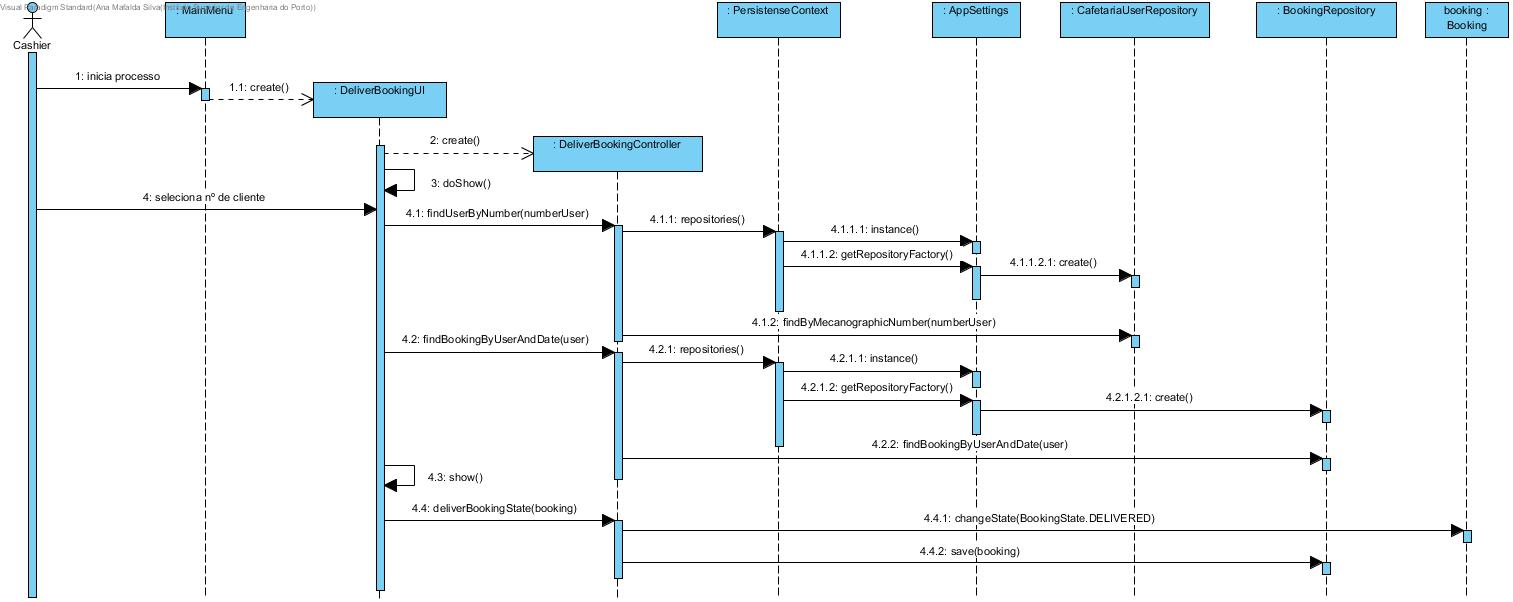
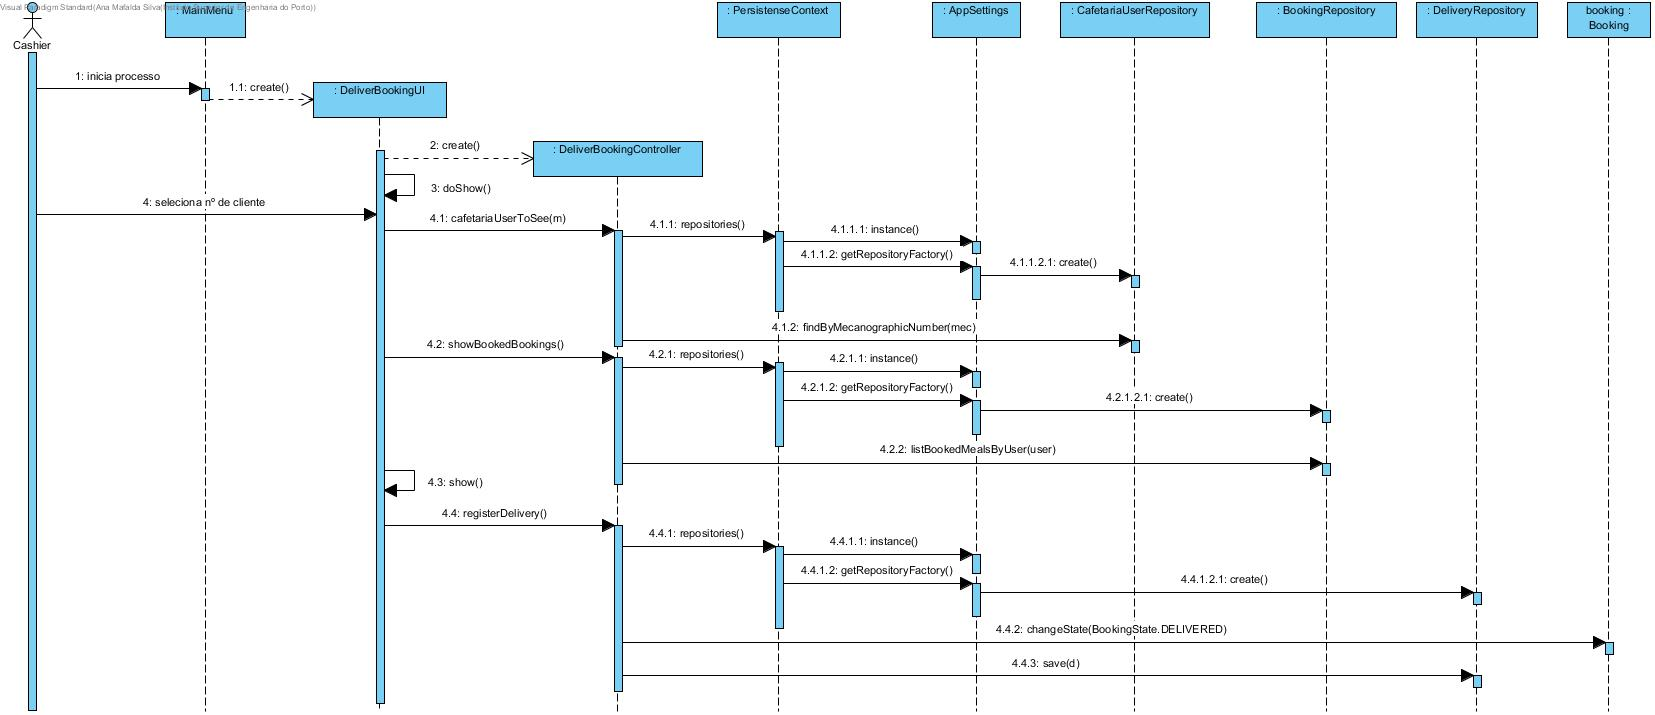
Modificações e correcções no caso de uso "DeliverBooking" e na documentação

diff --git a/ecafeteria.app.pos.console/src/main/java/eapli/ecafeteria/app/pos/console/presentation/booking/DeliverBookingUI.java b/ecafeteria.app.pos.console/src/main/java/eapli/ecafeteria/app/pos/console/presentation/booking/DeliverBookingUI.java
@@ -7,6 +7,7 @@ package eapli.ecafeteria.app.pos.console.presentation.booking;
 
 import eapli.ecafeteria.application.booking.DeliverBookingController;
 import eapli.ecafeteria.domain.booking.Booking;
+import eapli.ecafeteria.domain.cafeteriauser.MecanographicNumber;
 import eapli.framework.application.Controller;
 import eapli.framework.persistence.DataConcurrencyException;
 import eapli.framework.persistence.DataIntegrityViolationException;
@@ -35,6 +36,7 @@ public class DeliverBookingUI extends AbstractUI {
         boolean flag2;
         do {
             final String mecNum = Console.readLine("Input the mecanographic number:");
+            MecanographicNumber mn = new MecanographicNumber(mecNum + "");
             controller.cafetariaUserToSee(mecNum);
             controller.showBookedBookings();
             int choice = Console.readInteger("Please choose a booking: ");
@@ -45,9 +47,7 @@ public class DeliverBookingUI extends AbstractUI {
                 if(controller.registerDelivery()){
                     System.out.println("Success!!");
                 }
-            }   catch (DataIntegrityViolationException ex) {
-                    Logger.getLogger(DeliverBookingUI.class.getName()).log(Level.SEVERE, null, ex);
-                } catch (DataConcurrencyException ex) {
+            }   catch (DataIntegrityViolationException | DataConcurrencyException ex) {
                     Logger.getLogger(DeliverBookingUI.class.getName()).log(Level.SEVERE, null, ex);
                 }
             }

diff --git a/ecafeteria.core/src/main/java/eapli/ecafeteria/application/booking/DeliverBookingController.java b/ecafeteria.core/src/main/java/eapli/ecafeteria/application/booking/DeliverBookingController.java
@@ -87,24 +87,6 @@ public class DeliverBookingController implements Controller {
         return false;
     }
     
-    /*public boolean registerDelivery() throws DataConcurrencyException {
-
-        Delievery d = new Delievery(Calendar.getInstance(), user, bookingMeal);
-        try {
-            bookingMeal.updateBookingMealStatus(BookingMealStatus.DELIVERED);
-            deliveryRepo.save(d);
-        } catch (DataIntegrityViolationException ex) {
-            System.out.println("CANNOT REGISTER DELIVERY!!!");
-            Logger.getLogger(RegisterMealDelieveryController.class.getName()).log(Level.SEVERE, null, ex);
-        }
-
-        return true;
-    }
-
-    public void setBooking(BookingMeal b) {
-        this.bookingMeal = b;
-    }
-*/
     public boolean registerDelivery() throws DataConcurrencyException, DataIntegrityViolationException {
         
         Delievery d = new Delievery(Calendar.getInstance(), user, booking);

diff --git a/ecafeteria.persistence.impl/src/main/java/eapli/ecafeteria/persistence/jpa/JpaBookingRepository.java b/ecafeteria.persistence.impl/src/main/java/eapli/ecafeteria/persistence/jpa/JpaBookingRepository.java
@@ -78,7 +78,7 @@ class JpaBookingRepository extends CafeteriaJpaRepositoryBase<Booking, Long> imp
     public Iterable<Booking> listBookedMealsByCUser(CafeteriaUser cafUser) {
          final Query q = entityManager().createQuery(""
                 + "SELECT e FROM Booking e "
-                + "WHERE e.cafeteriaUser = 1 "
+                + "WHERE e.user = 1 "
                 + "AND e.bookingState = 2 ");
         q.setParameter(1, cafUser);
         q.setParameter(2, BookingState.RESERVED);
